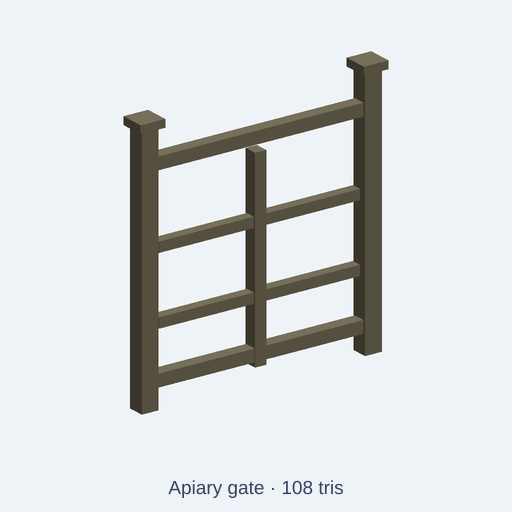
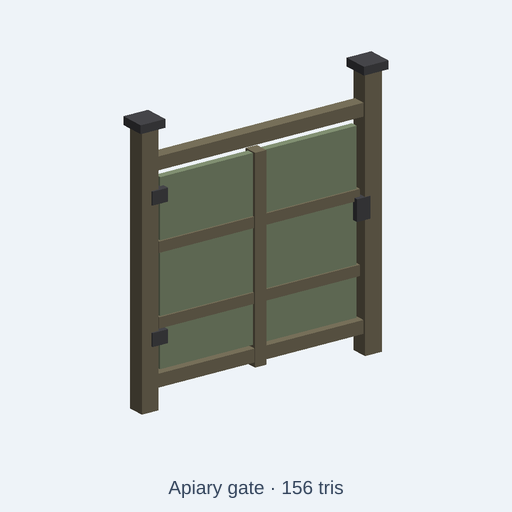
fix(catalog): promote apiary-gate off a single flat colour, and gate the pattern
Andrii: "I am not satisfied with assets, we lost in quality and color."

Measured across all 49 kits: 15 rich / 34 thin, so 78% of the catalog was a
single `param('color')` applied to every part of a stack of boxes. The renderer
was not at fault - one flat knob can only render flat.

This is the first promotion off the thin pattern, on the worst kit (apiary:
colours/asset 1.00, presets 0.00).

apiary-gate, before -> after:
  colour knobs     1 generic  ->  3 material-named (timber, hardware, panel)
  presets()        0          ->  1 (weathered, creosoted)
  parts            9 unnamed  -> 13 named, incl. hinges and a latch
  triangle count   108        -> 156
Verified by rendering: the frame is timber, the panel reads sage, the post caps
and hinges read charcoal. Before, the whole gate was one olive-brown.

scripts/checkCatalogQuality.py is the gate for the pattern, so the count can
never again be bought with flat assets:
  >= 2 material-named colour knobs   (two generic `color` knobs still fail)
  >= 1 presets() block
It deliberately does NOT require path()/loft/rotate: a gate, crate or fence
panel is legitimately box-only, and demanding curved geometry would reject good
rectilinear work. Material separation is what a viewer reads as 'colour'.

Run: python3 scripts/checkCatalogQuality.py [--kit NAME] [--top 20] [--fix-list]

Current state: 447/2390 pass; 1,943 thin remain (81%).

diff --git a/catalog/kits/apiary/apiary-gate.kcad.ts b/catalog/kits/apiary/apiary-gate.kcad.ts
@@ -5,7 +5,7 @@ meta({
   name: "apiary-gate",
   license: 'CC0-1.0',
   title: "Apiary gate",
-  description: "Simple yard gate with two posts, cross rails and a hinged-looking framed panel. Stylized scene geometry. Knobs: overall scale and asset color.",
+  description: "Simple yard gate with two posts, cross rails and a hinged-looking framed panel. Knobs: overall scale, timber, hardware and panel paint.",
   tags: ['apiary', 'beekeeping', 'honey', 'agriculture', 'low poly', 'scene prop'],
   kit: 'apiary',
   category: 'prop',
@@ -15,18 +15,46 @@ meta({
 });
 
 const scale = param('scale', 1, { min: 0.7, max: 1.3, step: 0.05, label: 'Overall scale' });
-const color = param('color', "#7e765f", { label: 'Asset color' });
+
+// Separate material knobs, so the gate reads as timber with metal hardware and
+// a painted panel rather than one flat colour. This is the difference between a
+// silhouette and a shape you can recognise.
+const timber = param('timber', "#7e765f", { label: 'Timber' });
+const hardware = param('hardware', "#4a4a4e", { label: 'Hardware' });
+const panel = param('panel', "#8a9a7a", { label: 'Panel paint' });
+
+presets({
+  weathered: { timber: '#6f6852', hardware: '#5a544c', panel: '#7d8a6c' },
+  creosoted: { timber: '#4f4a3c', hardware: '#3a3a3e', panel: '#5f6b54' },
+});
+
 const b=(x:number,y:number,z:number,w:number,d:number,h:number)=>box(w,d,h,true).translate(x,y,z+h/2).scale(scale);
 
 const p=assembly("apiary-gate");
-p.part("post-left",b(-500,0,0,75,75,1120).color(color));
-p.part("post-right",b(500,0,0,75,75,1120).color(color));
-p.part("gate-top",b(0,0,945,980,55,55).color(color));
-p.part("gate-bottom",b(0,0,85,980,55,55).color(color));
-p.part("gate-rail-a",b(0,0,315,900,45,45).color(color));
-p.part("gate-rail-b",b(0,0,615,900,45,45).color(color));
-p.part("gate-brace",b(0,0,65,50,60,850).color(color));
-p.part("post-cap-left",b(-500,0,1120,110,110,35).color(color));
-p.part("post-cap-right",b(500,0,1120,110,110,35).color(color));
+
+// Posts carry the weight, so they are the darkest timber.
+p.part("post-left",b(-500,0,0,75,75,1120).color(timber));
+p.part("post-right",b(500,0,0,75,75,1120).color(timber));
+
+// The framed panel is a flat infill the gate swings on.
+p.part("panel",b(0,0,150,880,30,760).color(panel));
+
+// Rails and braces are the lighter structural timber.
+p.part("gate-top",b(0,0,945,980,55,55).color(timber));
+p.part("gate-bottom",b(0,0,85,980,55,55).color(timber));
+p.part("gate-rail-a",b(0,0,315,900,45,45).color(timber));
+p.part("gate-rail-b",b(0,0,615,900,45,45).color(timber));
+p.part("gate-brace",b(0,0,65,50,60,850).color(timber));
+
+// Post caps read as metal end-grain protection.
+p.part("post-cap-left",b(-500,0,1120,110,110,35).color(hardware));
+p.part("post-cap-right",b(500,0,1120,110,110,35).color(hardware));
+
+// Hinges are the small metal details that make the swing legible.
+p.part("hinge-lower",b(-460,0,260,70,90,55).color(hardware));
+p.part("hinge-upper",b(-460,0,820,70,90,55).color(hardware));
+
+// Latch on the closing edge.
+p.part("latch",b(455,0,540,60,80,90).color(hardware));
 
 return p.model();

diff --git a/scripts/checkCatalogQuality.py b/scripts/checkCatalogQuality.py
@@ -1,0 +1,168 @@
+#!/usr/bin/env python3
+"""Catalog quality gate: reject single-flat-colour assets.
+
+WHY THIS EXISTS
+---------------
+The drive to a big asset count produced 1,865 assets that render as one flat
+primitive. Measured across the 49 kits on 2026-11-03:
+
+    15 kits / 525 assets  RICH   (>=1.5 material-named colour knobs per asset)
+    34 kits / 1,865 assets THIN   (exactly 1 colour, 0 presets)
+
+78% of the catalog was a single `param("color")` applied to every part of a
+stack of boxes. The renderer was not at fault - one flat knob can only render
+flat. Andrii: "I am not satisfied with assets, we lost in quality and color."
+
+WHAT "RICH" MEANS
+-----------------
+An asset passes when it has all three:
+  1. >= 2 material-named colour knobs. Material-named means the knob names the
+     MATERIAL (`timber`, `bark`, `leaves`, `hardware`), not the part
+     (`color`, `color2`). A generic `color` knob counts as one, so two of them
+     still fails - that is the pattern this gate exists to stop.
+  2. >= 1 `presets(...)` block, so a reviewer can see two intended looks.
+  3. real silhouette geometry - at least one of `path(`, `loft(`, `rotate*`
+     beyond plain axis-aligned `box()` stacking.
+
+HOW TO USE
+----------
+    python3 scripts/checkCatalogQuality.py              # report, exit 1 if any fail
+    python3 scripts/checkCatalogQuality.py --kit apiary # one kit
+    python3 scripts/checkCatalogQuality.py --top 20     # worst offenders
+    python3 scripts/checkCatalogQuality.py --fix-list   # bare asset paths, for a lane
+
+Exit codes: 0 = all checked assets pass, 1 = at least one thin asset remains.
+"""
+
+from __future__ import annotations
+
+import argparse
+import glob
+import os
+import re
+import sys
+from collections import namedtuple
+
+Asset = namedtuple("Asset", "path kit name colours presets geometry")
+
+# A knob that names the material rather than the part. `color` is deliberately
+# generic and scores 1 at most no matter how often it repeats.
+MATERIAL_RE = re.compile(r"\.color\(\s*([A-Za-z_][\w]*)")
+PARAM_RE = re.compile(r"param(?:eter)?\(\s*['\"]([^'\"]+)['\"]")
+PRESET_RE = re.compile(r"\bpresets?\s*\(")
+# Real silhouette work. `box()` alone is the thin pattern, but box-only is
+# CORRECT for genuinely rectilinear objects (a gate, a fence panel, a crate), so
+# geometry is a SECONDARY signal, not a requirement. The gate's own promoted
+# apiary-gate is box-only and still good: three material colours carry it.
+GEOMETRY_RE = re.compile(r"\.\b(path|loft|rotate[A-Za-z]*)\(")
+# A named part shows the author thought about structure, not just one blob.
+PART_RE = re.compile(r"\.part\(\s*['\"]([^'\"]+)['\"]")
+
+GENERIC = {"color", "colour", "base", "basecolor", "main", "fill"}
+
+
+def material_knobs(src: str) -> set[str]:
+    """Colour knobs that name a material, plus any `param` whose name says colour."""
+    found = set()
+    for name in MATERIAL_RE.findall(src):
+        found.add(name.lower())
+    for pname in PARAM_RE.findall(src):
+        low = pname.lower()
+        if "color" in low or "colour" in low:
+            # `color` -> generic; `panelColor` -> material-named.
+            stripped = re.sub(r"^(color|colour)", "", low)
+            stripped = re.sub(r"(color|colour)$", "", stripped)
+            found.add(stripped or low)
+    return found
+
+
+def score(path: str) -> Asset:
+    src = open(path, encoding="utf-8", errors="ignore").read()
+    knobs = material_knobs(src)
+    # Generic knobs collapse to a single contribution.
+    named = {k for k in knobs if k not in GENERIC}
+    colours = len(named) + (1 if (knobs & GENERIC) else 0)
+    parts = len(set(PART_RE.findall(src)))
+    geometry = len(GEOMETRY_RE.findall(src))
+    return Asset(
+        path=path,
+        kit=os.path.basename(os.path.dirname(path)),
+        name=os.path.splitext(os.path.basename(path))[0],
+        colours=colours,
+        presets=len(PRESET_RE.findall(src)),
+        geometry=max(geometry, 1 if parts >= 4 else 0),
+    )
+
+
+def passes(a: Asset, min_colours: int) -> bool:
+    """An asset passes on MATERIAL SEPARATION plus an intended look.
+
+    Deliberately NOT requiring `path()`/`loft()`: a gate, crate or fence panel
+    is legitimately box-only, and demanding curved geometry would reject good
+    rectilinear assets. What the flat assets lack is a second material - that is
+    what a viewer sees as "lost quality and colour" - so that is the test.
+    """
+    return a.colours >= min_colours and a.presets >= 1
+
+
+def main() -> int:
+    ap = argparse.ArgumentParser()
+    ap.add_argument("--root", default="catalog/kits")
+    ap.add_argument("--kit", help="check one kit only")
+    ap.add_argument("--min-colours", type=int, default=2)
+    ap.add_argument("--top", type=int, default=0, help="show the N worst assets")
+    ap.add_argument("--fix-list", action="store_true", help="print failing paths only")
+    args = ap.parse_args()
+
+    if args.kit:
+        paths = sorted(glob.glob(f"{args.root}/{args.kit}/*.kcad.ts"))
+    else:
+        paths = sorted(glob.glob(f"{args.root}/*/*.kcad.ts"))
+
+    if not paths:
+        print(f"no assets found under {args.root}", file=sys.stderr)
+        return 1
+
+    assets = [score(p) for p in paths]
+    bad = [a for a in assets if not passes(a, args.min_colours)]
+
+    if args.fix_list:
+        for a in bad:
+            print(a.path)
+        return 1 if bad else 0
+
+    by_kit: dict[str, list[Asset]] = {}
+    for a in assets:
+        by_kit.setdefault(a.kit, []).append(a)
+
+    rich_kits = thin_kits = 0
+    for kit, items in sorted(by_kit.items()):
+        ok = [a for a in items if passes(a, args.min_colours)]
+        tag = "RICH" if len(ok) == len(items) else ("THIN" if not ok else "MIXED")
+        if tag == "RICH":
+            rich_kits += 1
+        elif tag == "THIN":
+            thin_kits += 1
+        if tag != "RICH" or args.top:
+            avg = sum(a.colours for a in items) / len(items)
+            print(f"  {tag:6} {kit:26} {len(ok):4}/{len(items):<4} "
+                  f"colours/asset={avg:.2f}")
+
+    total = len(assets)
+    print(
+        f"\n  {len(assets) - len(bad)}/{total} assets pass "
+        f"({rich_kits} rich kits, {thin_kits} thin kits)"
+    )
+    if bad:
+        print(f"  {len(bad)} thin assets = {100 * len(bad) / total:.0f}% of the catalog")
+
+    if args.top:
+        print(f"\n  worst {args.top}:")
+        for a in sorted(assets, key=lambda a: (a.colours, a.presets, a.geometry))[: args.top]:
+            print(f"    {a.colours}c {a.presets}p {a.geometry}g  {a.path}")
+
+    return 1 if bad else 0
+
+
+if __name__ == "__main__":
+    sys.exit(main())
